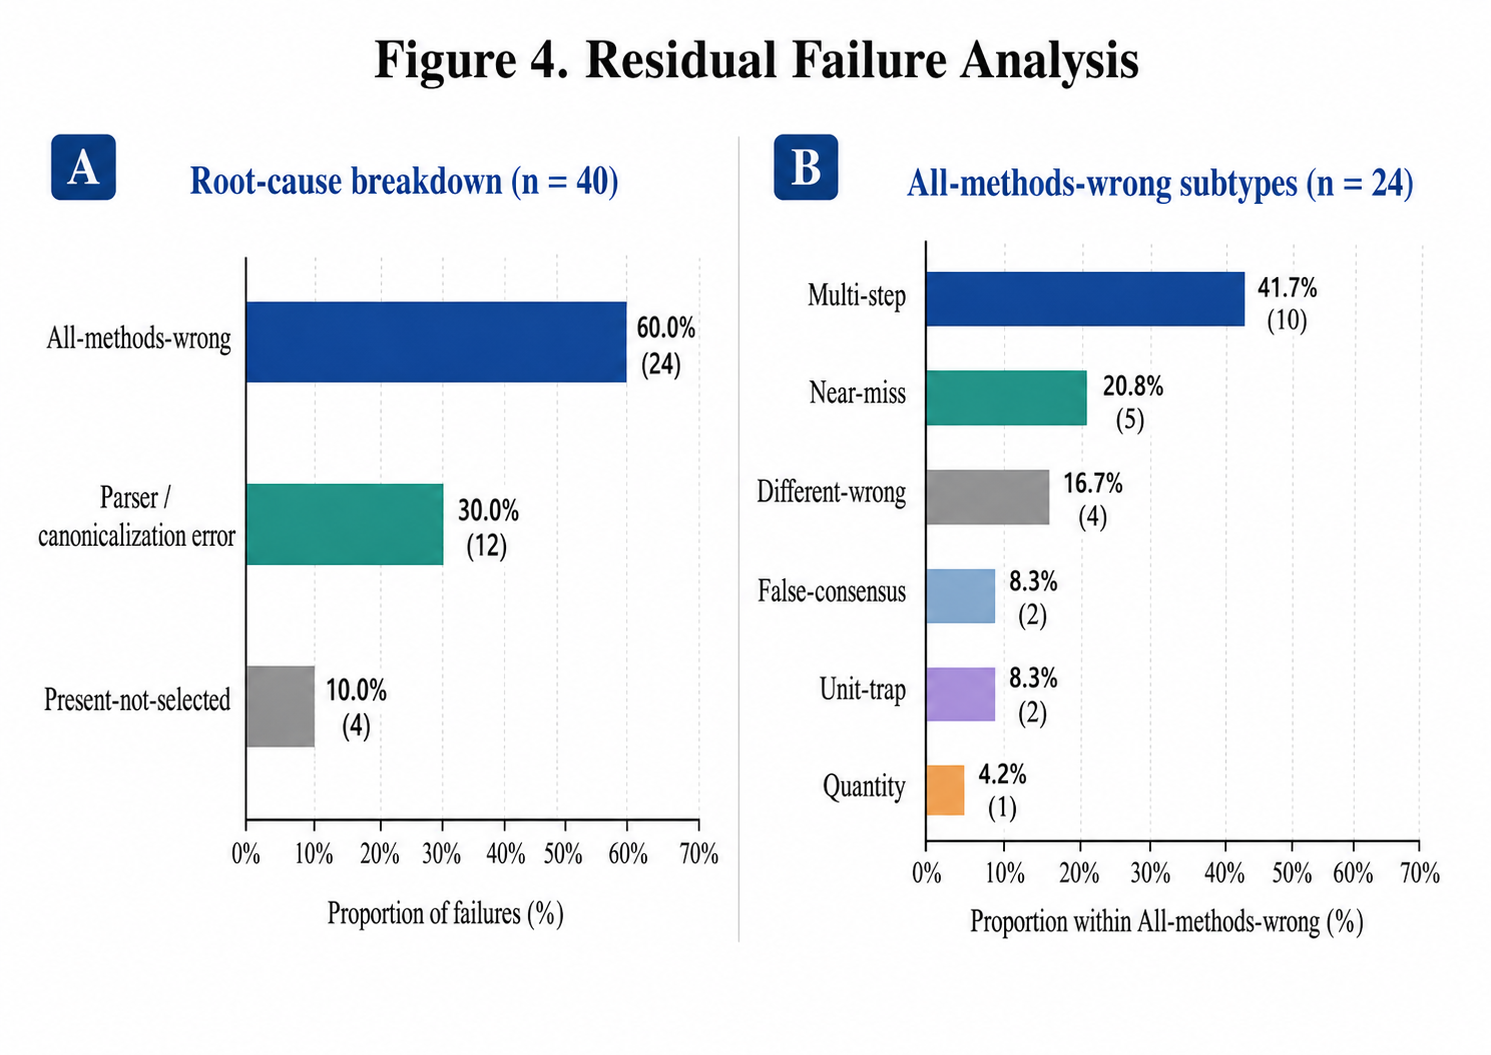
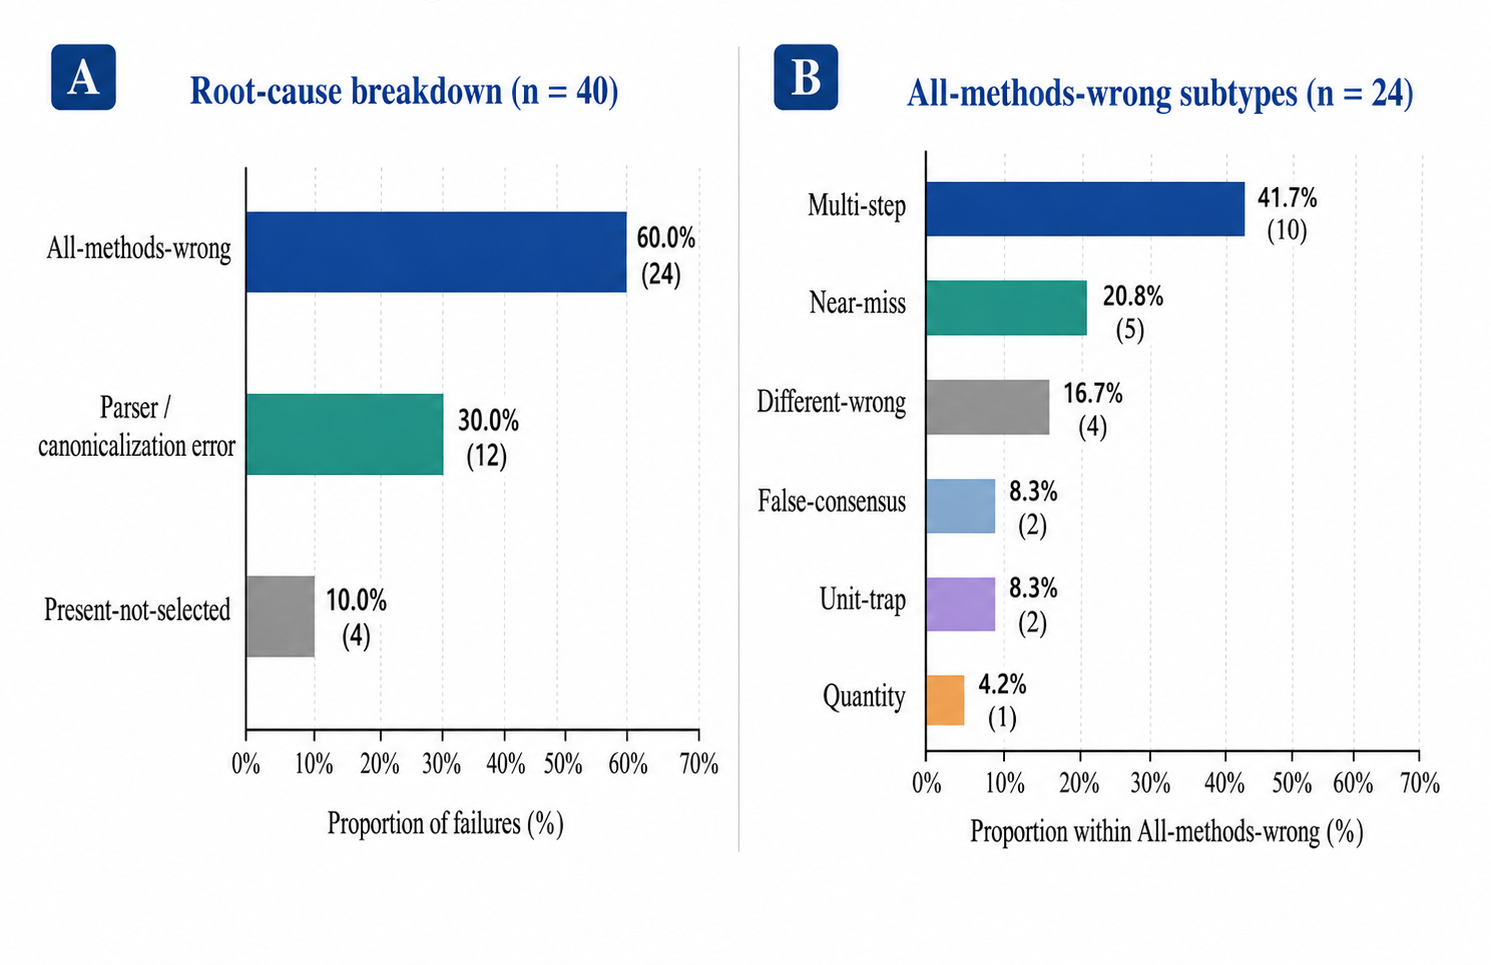
paper: polish Applied Intelligence manuscript

diff --git a/paper_applied_intelligence/main.tex b/paper_applied_intelligence/main.tex
@@ -14,7 +14,7 @@
 \usepackage{cleveref}
 \usepackage{enumitem}
 \usepackage{float}
-\usepackage{natbib}
+\usepackage[numbers]{natbib}
 \usepackage{tikz}
 \usetikzlibrary{shapes.geometric,arrows.meta,positioning}
 
@@ -26,9 +26,10 @@
 
 \author{Soroush Vahidi}
 
-\institute{Soroush Vahidi \at Department of Computer Science,
+\institute{Department of Computer Science,
 New Jersey Institute of Technology, Newark, NJ, USA \\
-\email{[email redacted]}}
+\email{[email redacted]} \\
+ORCID: \href{https://orcid.org/0000-0003-1934-6282}{0000-0003-1934-6282}}
 
 \date{}
 \maketitle
@@ -43,8 +44,9 @@ post-generation policy that exploits failure-trace metadata logged as a
 side-effect of the frontier generation run.
 The \emph{Low-Depth Guard} fires when the frontier search terminates on a
 structurally weak single branch, substituting an external majority-vote answer.
-The \emph{External-Consensus Fallback} fires when all three independent external
-baselines unanimously disagree with the frontier's selected answer.
+The \emph{External-Consensus Fallback} fires, as a low-frequency high-precision
+safeguard, when all three independent external baselines unanimously disagree
+with the frontier's selected answer.
 Both gates are strictly gold-free and issue no additional inference calls.
 
 We evaluate on the GSM8K benchmark~\citep{cobbe2021training} using
@@ -102,11 +104,12 @@ other providers or tasks requires independent replication.
 \section*{Acknowledgements}
 The author thanks Professor Ioannis Koutis for his support, guidance, and helpful
 discussions during this work. The author is also deeply grateful to his mother for
-her continuous support and encouragement. The author acknowledges Cohere for
-providing research API credits that supported the model-inference experiments in
-this study.
+her continuous support and encouragement. The author acknowledges Cohere and CloudRift AI for 
+providing research API credits that supported the model-inference experiments in this study. The 
+author also thanks Anders Borum for providing free lifetime access to Secure ShellFish, which 
+supported the remote research workflow.
 
-\bibliographystyle{spmpsci}
+\bibliographystyle{unsrtnat}
 \bibliography{refs}
 
 \clearpage

diff --git a/paper_applied_intelligence/sections/04_method.tex b/paper_applied_intelligence/sections/04_method.tex
@@ -33,6 +33,27 @@ This places the method in the same conceptual space as selective
 prediction, dynamic ensemble selection, and cost-aware LLM routing, while
 keeping the decision rule deterministic and auditable.
 
+\paragraph{Frontier generator and runtime metadata.}
+The frontier method (Section~\ref{sec:terminology}) produces each candidate by exploring
+multiple reasoning \emph{branches}, where a branch is one candidate trajectory and its
+\emph{depth} is the number of expansion steps from the root.
+As a side-effect of normal inference, the frontier logs four runtime-visible metadata
+fields that FTA consumes.
+\texttt{frontier\_support} is the integer count of branches that converge on the selected
+answer; a value of zero or one indicates a low-support, single-branch selection.
+\texttt{candidate\_pool\_answer\_group\_count} is the integer count of distinct answer
+equivalence classes across all branches explored, with higher values indicating greater
+internal disagreement.
+\texttt{override\_reason} is a string set by the frontier's internal selection step;
+the values \texttt{"single\_weak\_frontier\_branch"} (at most one branch supports the
+selected answer) and \texttt{"direct\_frontier\_agree"} (the frontier answer matches the
+frontier's own internal reference selection, indicating internal self-consistency) are the
+two states relevant to the LDG and ECO gates respectively.
+\texttt{direct\_frontier\_agree} is a boolean indicator of the same internal-consistency
+condition.
+All fields are recorded during ordinary inference without gold-label access; FTA uses them
+exactly as logged, making the decision boundary auditable from the run records.
+
 Conceptually, FTA uses three abstract predicates.
 \textsc{WeakFrontier}$(x)$ is true when the frontier trace indicates low support
 or a single-branch selection.

diff --git a/paper_applied_intelligence/sections/06_results.tex b/paper_applied_intelligence/sections/06_results.tex
@@ -67,6 +67,24 @@ Aggregate-720 LDG-only accuracy from 80.00\% to 80.42\%, with frontier
 fallback on all-different external ties reaching 80.83\%; these variants are
 reported only as sensitivity because they were not the main method.
 
+\paragraph{FTA vs.\ External-3 majority: selective vs.\ uniform override.}
+The External-3 majority baseline (L1/S1/TALE vote) reaches 85.33\% on Final-300 and
+80.28\% on Aggregate-720, placing it close to FTA by point estimate.
+This proximity merits interpretation, because the two approaches differ in operating
+principle: External-3 applies a uniform vote over the three external baselines on every
+example, while FTA retains the frontier answer on 593 of 720 Aggregate-720 examples and
+overrides only when runtime failure-trace metadata indicates structural weakness (LDG) or
+unanimous high-confidence external disagreement (ECO).
+FTA's value is therefore not a pooled-vote point estimate but a transparent, auditable
+selective-deferral rule in which each override is attributable to a named gate and a logged
+trigger field from the frontier run.
+The ECO component contributes only five triggers on Aggregate-720---all recovering from
+incorrect frontier answers---and should be read as a low-frequency high-precision
+safeguard rather than a high-coverage source of aggregate recovery.
+In this evaluation, FTA and External-3 reach similar aggregate accuracy through different
+mechanisms: FTA preserves the frontier signal on most examples and defers selectively,
+while External-3 discards the frontier uniformly.
+
 \paragraph{Source-by-source breakdown.}
 Table~\ref{tab:source_by_source} gives the per-source accuracy for all
 evaluated methods.

diff --git a/paper_applied_intelligence/tables/tableA2_win_loss_tie.tex b/paper_applied_intelligence/tables/tableA2_win_loss_tie.tex
@@ -1,9 +1,9 @@
 \begin{table}[H]
 \centering
-\caption{Win/loss/tie decomposition for Failure-Trace Allocator (FTA, implementation: FIX-2+FIX-4) versus each external baseline on
-Final-300 (seed 71, budget 6, $n=300$). A win is a case where Failure-Trace Allocator (FTA, implementation: FIX-2+FIX-4) is correct
+\caption{Win/loss/tie decomposition for Failure-Trace Allocator (FTA) versus each external baseline on
+Final-300 (seed 71, budget 6, $n=300$). A win is a case where Failure-Trace Allocator (FTA) is correct
 and the baseline is not; a loss is the reverse; a tie is when both policies agree on
-correctness. The low loss counts confirm that Failure-Trace Allocator (FTA, implementation: FIX-2+FIX-4) recoveries substantially
+correctness. The low loss counts confirm that Failure-Trace Allocator (FTA) recoveries substantially
 outweigh regressions, particularly vs.\ TALE.}
 \label{tab:wlt}
 \small
@@ -11,9 +11,9 @@ outweigh regressions, particularly vs.\ TALE.}
 \toprule
 Comparison & Wins & Losses & Ties \\
 \midrule
-Failure-Trace Allocator (FTA, implementation: FIX-2+FIX-4) vs L1   & 19 & 8 & 273 \\
-Failure-Trace Allocator (FTA, implementation: FIX-2+FIX-4) vs S1   & 23 & 9 & 268 \\
-Failure-Trace Allocator (FTA, implementation: FIX-2+FIX-4) vs TALE & 27 & 2 & 271 \\
+Failure-Trace Allocator (FTA) vs L1   & 19 & 8 & 273 \\
+Failure-Trace Allocator (FTA) vs S1   & 23 & 9 & 268 \\
+Failure-Trace Allocator (FTA) vs TALE & 27 & 2 & 271 \\
 \bottomrule
 \end{tabular}
 \end{table}

diff --git a/paper_applied_intelligence/appendix.tex b/paper_applied_intelligence/appendix.tex
@@ -10,7 +10,7 @@ parameter grounding, runtime feature legality, and paper-facing name mappings.
 \subsection*{Additional Result Decompositions}
 
 The following tables give the per-example win/loss/tie decomposition
-(Table~\ref{tab:wlt}) and claim language guidance for manuscript writing
+(Table~\ref{tab:wlt}) and supported versus unsupported claim examples
 (Table~\ref{tab:claim_language}).
 
 \input{tables/tableA2_win_loss_tie}
@@ -20,14 +20,14 @@ The following tables give the per-example win/loss/tie decomposition
 \subsection*{Parameter Grounding and Sensitivity}
 
 Table~\ref{tab:param_sensitivity} documents the key parameters and design choices
-used in Failure-Trace Allocator (FTA, implementation: FIX-2+FIX-4), including their values, roles, and available robustness evidence.
+used in Failure-Trace Allocator (FTA), including their values, roles, and available robustness evidence.
 
 \input{tables/tableA4_parameter_sensitivity}
 
 \clearpage
 \subsection*{Runtime Feature Legality}
 
-Table~\ref{tab:feature_legality} lists all features used by Failure-Trace Allocator (FTA, implementation: FIX-2+FIX-4) at
+Table~\ref{tab:feature_legality} lists all features used by Failure-Trace Allocator (FTA) at
 inference time and confirms their gold-free status.
 
 \input{tables/tableA5_feature_legality}
@@ -56,7 +56,7 @@ provider API access to Cohere command-r-plus-08-2024; however, the manuscript's 
 post-generation analyses are reproducible offline from the supplied processed artifacts.
 
 \section*{Funding}
-This work was supported by Cohere research API credits. No other specific grant
+This work was supported by research API credits from Cohere and CloudRift AI. No other specific grant
 funding was received from any funding agency in the public, commercial, or
 not-for-profit sectors.
 

diff --git a/paper_applied_intelligence/tables/table4_policy_rules.tex b/paper_applied_intelligence/tables/table4_policy_rules.tex
@@ -8,16 +8,16 @@
 \toprule
 Component & Predicate / exact condition & Action & Gold-free rationale \\
 \midrule
-Low-Depth Guard (LDG; implementation: FIX-2): \textsc{WeakFrontier} &
+Low-Depth Guard (LDG): \textsc{WeakFrontier} &
   \texttt{override\allowbreak\_reason} contains \texttt{single\allowbreak\_weak\allowbreak\_frontier\allowbreak\_branch} \textbf{or} (\texttt{frontier\allowbreak\_support}$=0$ \textbf{and} \texttt{pool\allowbreak\_group\allowbreak\_count}$\geq 2$) &
   Fallback to external majority vote; if no majority use priority TALE$\succ$S1$\succ$L1; else keep frontier &
   Uses only runtime metadata and baseline answers; no gold/exact labels \\
-External-Consensus Fallback (ECO; implementation: FIX-4): \textsc{ExternalConsensusDisagree} &
+External-Consensus Fallback (ECO): \textsc{ExternalConsensusDisagree} &
   \texttt{override\allowbreak\_reason}$=$\texttt{direct\allowbreak\_frontier\allowbreak\_agree} \textbf{and} \texttt{l1}$=$\texttt{s1}$=$\texttt{tale} \textbf{and} unanimous external $\neq$ frontier &
   Replace frontier with the unanimous external answer &
   Uses only runtime override reason and method answers \\
-Combined Failure-Trace Allocator (FTA, implementation: FIX-2+FIX-4) &
-  If Low-Depth Guard (LDG, implementation: FIX-2) fires: apply Low-Depth Guard (LDG, implementation: FIX-2) and stop; else if External-Consensus Fallback (ECO, implementation: FIX-4) fires: apply External-Consensus Fallback (ECO, implementation: FIX-4); else keep frontier &
+Combined Failure-Trace Allocator (FTA) &
+  If LDG fires: apply LDG and stop; else if ECO fires: apply ECO; else keep frontier &
   Single-fire precedence chain &
   No correctness labels in trigger chain \\
 \bottomrule

diff --git a/paper_applied_intelligence/sections/11_conclusion.tex b/paper_applied_intelligence/sections/11_conclusion.tex
@@ -16,9 +16,10 @@ The policy consists of two rule-based gates applied in strict priority order.
 The Low-Depth Guard (LDG) detects structurally weak frontier search branches
 using logged failure-trace metadata and substitutes the external majority
 answer.
-The External-Consensus Fallback (ECO) identifies cases where all three
-external baselines unanimously disagree with the frontier's selection,
-overriding to the consensus answer.
+The External-Consensus Fallback (ECO), a low-frequency high-precision
+safeguard in this evaluation, identifies cases where all three external
+baselines unanimously disagree with the frontier's selection, overriding
+to the consensus answer.
 Both gates are gold-free: no correctness labels, example identifiers, or
 artifact paths are accessed at runtime, and no additional inference calls are
 issued after candidate generation.

diff --git a/paper_applied_intelligence/tables/tableA3_safe_unsafe_claims.tex b/paper_applied_intelligence/tables/tableA3_safe_unsafe_claims.tex
@@ -1,14 +1,14 @@
 \begin{table}[H]
 \centering
-\caption{Claim language guidance for manuscript writing.}
+\caption{Supported and unsupported claim examples. ``Safe'' claims are within the evidence scope; ``Unsafe'' claims are not.}
 \label{tab:claim_language}
 \small
 \begin{tabular}{lp{0.80\textwidth}}
 \toprule
 Type & Claim statement \\
 \midrule
-Safe & Failure-Trace Allocator (FTA, implementation: FIX-2+FIX-4) outperforms L1/S1/TALE and best-external on aggregate720 (matched budget), with positive source-stratified bootstrap CI lower bounds for all baseline comparisons. \\
-Safe & Failure-Trace Allocator (FTA, implementation: FIX-2+FIX-4) is ahead of pooled-answer ensemble baselines by point estimate on Final-300 and Aggregate-720, but the confidence intervals include zero. \\
+Safe & Failure-Trace Allocator (FTA) outperforms L1/S1/TALE and best-external on aggregate720 (matched budget), with positive source-stratified bootstrap CI lower bounds for all baseline comparisons. \\
+Safe & Failure-Trace Allocator (FTA) is ahead of pooled-answer ensemble baselines by point estimate on Final-300 and Aggregate-720, but the confidence intervals include zero. \\
 Safe & Failure-trace-guided gold-free rules recover low-depth and external-consensus failure modes. \\
 Safe & FIX-5/6/7/8/9 are not retained due to insufficient or negative evidence. \\
 Unsafe & Universal superiority over all reasoning methods. \\

diff --git a/paper_applied_intelligence/tables/tableA4_parameter_sensitivity.tex b/paper_applied_intelligence/tables/tableA4_parameter_sensitivity.tex
@@ -1,6 +1,6 @@
 \begin{table}[H]
 \centering
-\caption{Parameter grounding for Failure-Trace Allocator (FTA, implementation: FIX-2+FIX-4) and the evaluation protocol. We report parameter grounding and available robustness checks rather than a full continuous hyperparameter sweep; a full threshold sweep is left for future work. All values are fixed and applied identically across all evaluated splits.}
+\caption{Parameter grounding for Failure-Trace Allocator (FTA) and the evaluation protocol. We report parameter grounding and available robustness checks rather than a full continuous hyperparameter sweep; a full threshold sweep is left for future work. All values are fixed and applied identically across all evaluated splits.}
 \label{tab:param_sensitivity}
 \scriptsize
 \resizebox{\textwidth}{!}{%
@@ -33,7 +33,7 @@ $\wedge$ \texttt{pool\_group\_count}$\geq 2$ \newline
   Condition derived from offline evaluation review; trigger counts in supplementary artifacts. &
   No continuous threshold sweep. \\
 \addlinespace
-External-consensus condition (External-Consensus Fallback (ECO, implementation: FIX-4)): \texttt{l1}$=$\texttt{s1}$=$\texttt{tale} $\wedge$ all $\neq$ frontier \newline
+External-consensus condition (ECO): \texttt{l1}$=$\texttt{s1}$=$\texttt{tale} $\wedge$ all $\neq$ frontier \newline
   \textit{(unanimity gate)} &
   Identifies unanimous external agreement diverging from frontier.
   Unanimity is a strong, conservative signal; partial agreement is not acted on. &
@@ -67,7 +67,7 @@ Provider / model \newline \textit{(Cohere command-r-plus-08-2024)} &
 External tie fallback \newline \textit{(TALE$\succ$S1$\succ$L1)} &
   Deterministic gold-free fallback when L1, S1, and TALE all disagree.
   Retained as the fixed retained-policy convention rather than optimized on Aggregate720. &
-  Alternative Low-Depth Guard (LDG, implementation: FIX-2)-only replays on Aggregate720 give 80.14\% for S1-first and 80.42\% for L1-first; frontier fallback on all-different external ties gives 80.83\%. &
+  Alternative LDG-only replays on Aggregate720 give 80.14\% for S1-first and 80.42\% for L1-first; frontier fallback on all-different external ties gives 80.83\%. &
   Tie order is not separately validated as an optimal policy. \\
 \bottomrule
 \end{tabular}}

diff --git a/paper_applied_intelligence/tables/table1_main_results.tex b/paper_applied_intelligence/tables/table1_main_results.tex
@@ -9,8 +9,8 @@
 Policy & Final300 Acc. & Final300 c/n & Agg720 Acc. & Agg720 c/n & $\Delta$vsL1 & $\Delta$vsS1 & $\Delta$vsTALE & Promoted \\
 \midrule
 frontier original & 76.67 & 230/300 & 75.28 & 542/720 & $-2.36$ & $-1.81$ & $+0.14$ & no \\
-Low-Depth Guard (LDG, implementation: FIX-2) & 85.67 & 257/300 & 80.00 & 576/720 & $+2.36$ & $+2.92$ & $+4.86$ & no \\
-\textbf{Failure-Trace Allocator (FTA, implementation: FIX-2+FIX-4)} & \textbf{86.67} & \textbf{260/300} & \textbf{80.69} & \textbf{581/720} & $\mathbf{+3.06}$ & $\mathbf{+3.61}$ & $\mathbf{+5.56}$ & \textbf{yes} \\
+Low-Depth Guard (LDG) & 85.67 & 257/300 & 80.00 & 576/720 & $+2.36$ & $+2.92$ & $+4.86$ & no \\
+\textbf{Failure-Trace Allocator (FTA)} & \textbf{86.67} & \textbf{260/300} & \textbf{80.69} & \textbf{581/720} & $\mathbf{+3.06}$ & $\mathbf{+3.61}$ & $\mathbf{+5.56}$ & \textbf{yes} \\
 FIX-5 & 78.67 & 236/300 & 75.28 & 542/720 & $-2.36$ & $-1.81$ & $+0.14$ & no \\
 Pooled-4 ensemble & 84.33 & 253/300 & 79.86 & 575/720 & $+2.22$ & $+2.78$ & $+4.72$ & no \\
 External-3 ensemble & 85.33 & 256/300 & 80.28 & 578/720 & $+2.64$ & $+3.19$ & $+5.14$ & no \\

diff --git a/paper_applied_intelligence/tables/table8_pooled_ensemble.tex b/paper_applied_intelligence/tables/table8_pooled_ensemble.tex
@@ -1,12 +1,12 @@
 \begin{table*}[t]
 \centering
-\caption{Pooled answer-ensemble baselines computed from the same per-example frontier, L1, S1, and TALE outputs. Pooled-4 uses a strict majority over four answers and falls back to the frontier answer on ties or all-different cases. External-3 uses majority vote over L1/S1/TALE with the fixed, deterministic TALE$\succ$S1$\succ$L1 tie fallback used by the main method; tie sensitivity is summarized in Table~\ref{tab:param_sensitivity}. Deltas and win/loss/tie counts compare Failure-Trace Allocator (FTA, implementation: FIX-2+FIX-4) to the pooled baseline.}
+\caption{Pooled answer-ensemble baselines computed from the same per-example frontier, L1, S1, and TALE outputs. Pooled-4 uses a strict majority over four answers and falls back to the frontier answer on ties or all-different cases. External-3 uses majority vote over L1/S1/TALE with the fixed, deterministic TALE$\succ$S1$\succ$L1 tie fallback used by the main method; tie sensitivity is summarized in Table~\ref{tab:param_sensitivity}. Deltas and win/loss/tie counts compare Failure-Trace Allocator (FTA) to the pooled baseline.}
 \label{tab:pooled_ensemble}
 \scriptsize
 \resizebox{\textwidth}{!}{%
 \begin{tabular}{lcccccc}
 \toprule
-Split & Low-Depth Guard (LDG, implementation: FIX-2)+4 & Pooled-4 & External-3 & $\Delta$ vs Pooled-4 & W/L/T vs Pooled-4 & 95\% CI \\
+Split & FTA & Pooled-4 & External-3 & $\Delta$ vs Pooled-4 & W/L/T vs Pooled-4 & 95\% CI \\
 \midrule
 Final-300 & 260/300 (86.67\%) & 253/300 (84.33\%) & 256/300 (85.33\%) & $+2.33$ pp & 16/9/275 & $[-0.67,\,+5.67]$ \\
 Aggregate-720 & 581/720 (80.69\%) & 575/720 (79.86\%) & 578/720 (80.28\%) & $+0.83$ pp & 28/22/670 & $[-1.11,\,+2.78]$ \\

diff --git a/paper_applied_intelligence/tables/table9_gate_actions.tex b/paper_applied_intelligence/tables/table9_gate_actions.tex
@@ -1,12 +1,12 @@
 \begin{table*}[t]
 \centering
-\caption{Gate-action decomposition for the retained Failure-Trace Allocator (FTA, implementation: FIX-2+FIX-4) policy. External-Consensus Fallback (ECO, implementation: FIX-4) fires only after Low-Depth Guard (LDG, implementation: FIX-2) does not fire. The final columns report correctness before and after External-Consensus Fallback (ECO, implementation: FIX-4) on the examples where External-Consensus Fallback (ECO, implementation: FIX-4) fires, relative to the original frontier answer.}
+\caption{Gate-action decomposition for the retained FTA policy. ECO fires only after LDG does not fire. The final columns report correctness before and after ECO on the examples where ECO fires, relative to the original frontier answer.}
 \label{tab:gate_actions}
 \scriptsize
 \resizebox{\textwidth}{!}{%
 \begin{tabular}{lrrrrrrr}
 \toprule
-Split & $N$ & Low-Depth Guard (LDG, implementation: FIX-2) fires & External-Consensus Fallback (ECO, implementation: FIX-4) fires & No gate & External-Consensus Fallback (ECO, implementation: FIX-4) before & External-Consensus Fallback (ECO, implementation: FIX-4) after & External-Consensus Fallback (ECO, implementation: FIX-4) W/L/T \\
+Split & $N$ & LDG fires & ECO fires & No gate & ECO before & ECO after & ECO W/L/T \\
 \midrule
 seed41 & 300 & 38 & 2 & 260 & 0/2 & 2/2 & 2/0/0 \\
 seed61 & 120 & 21 & 0 & 99 & 0/0 & 0/0 & 0/0/0 \\